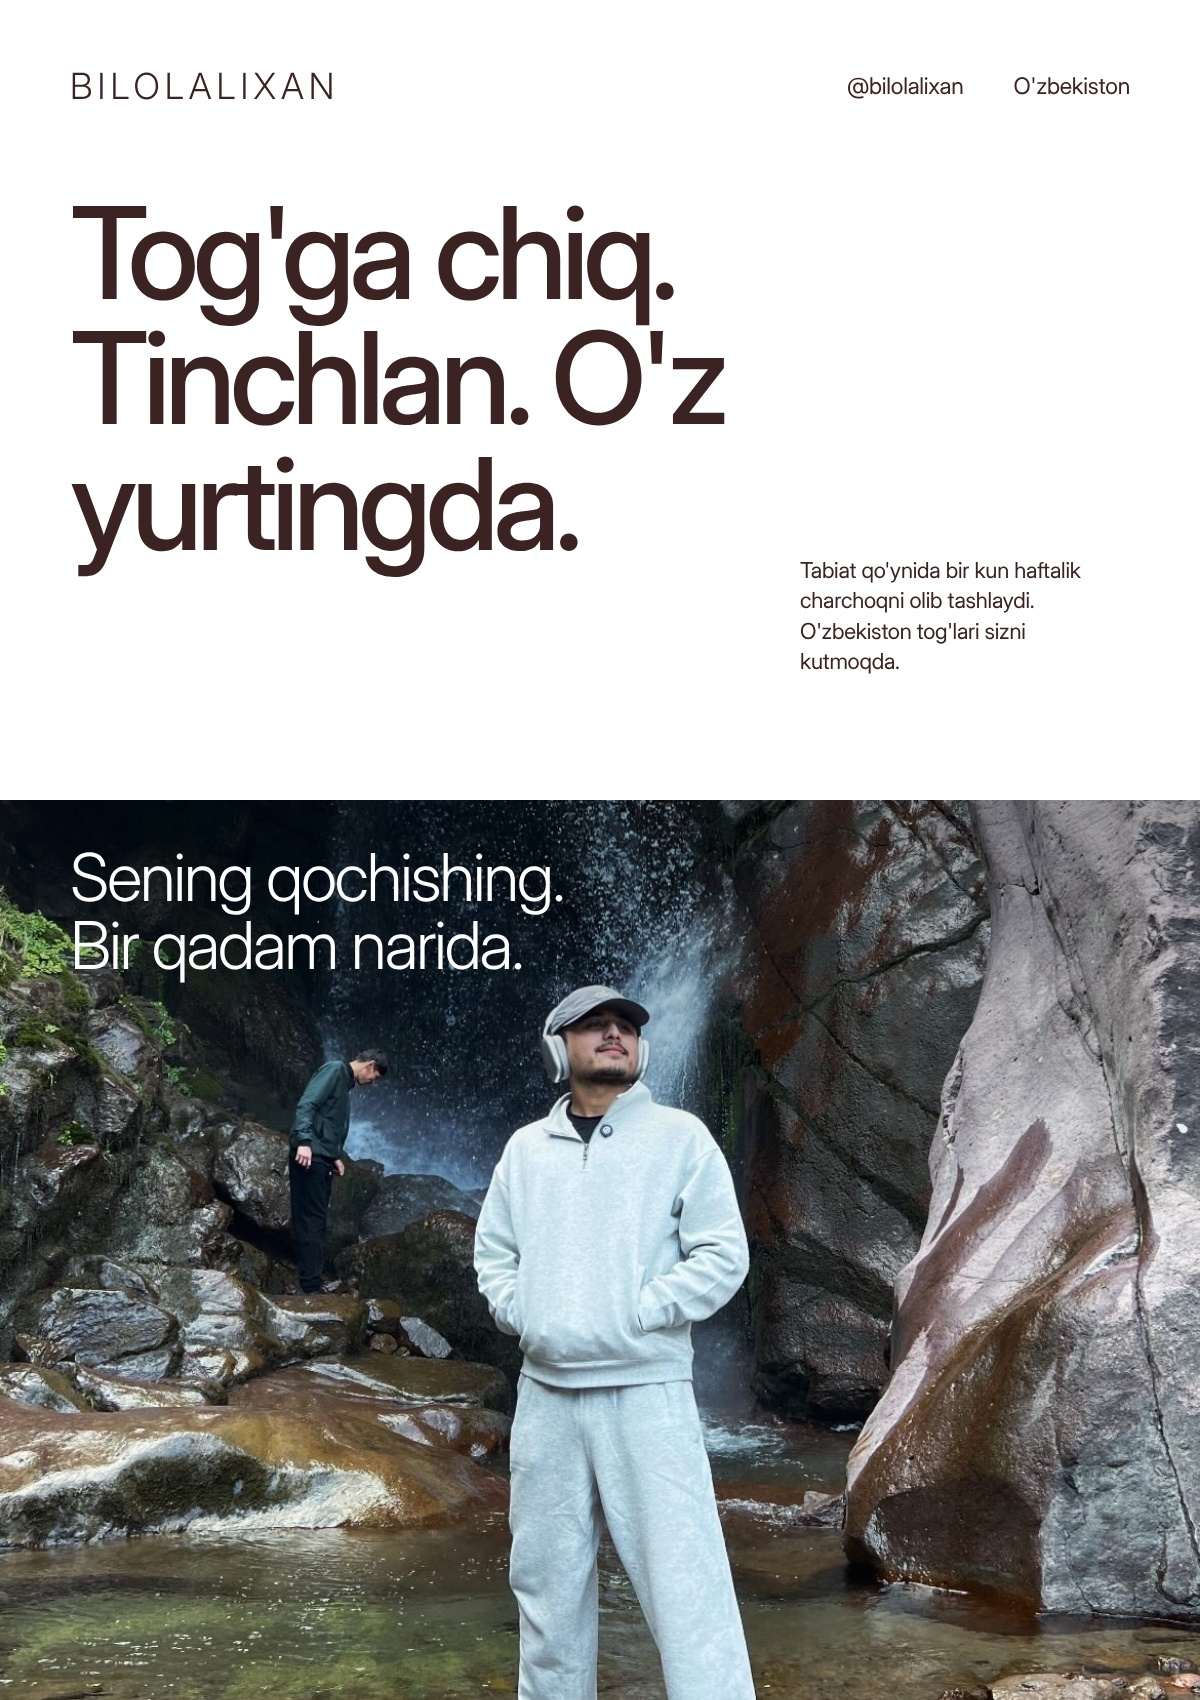
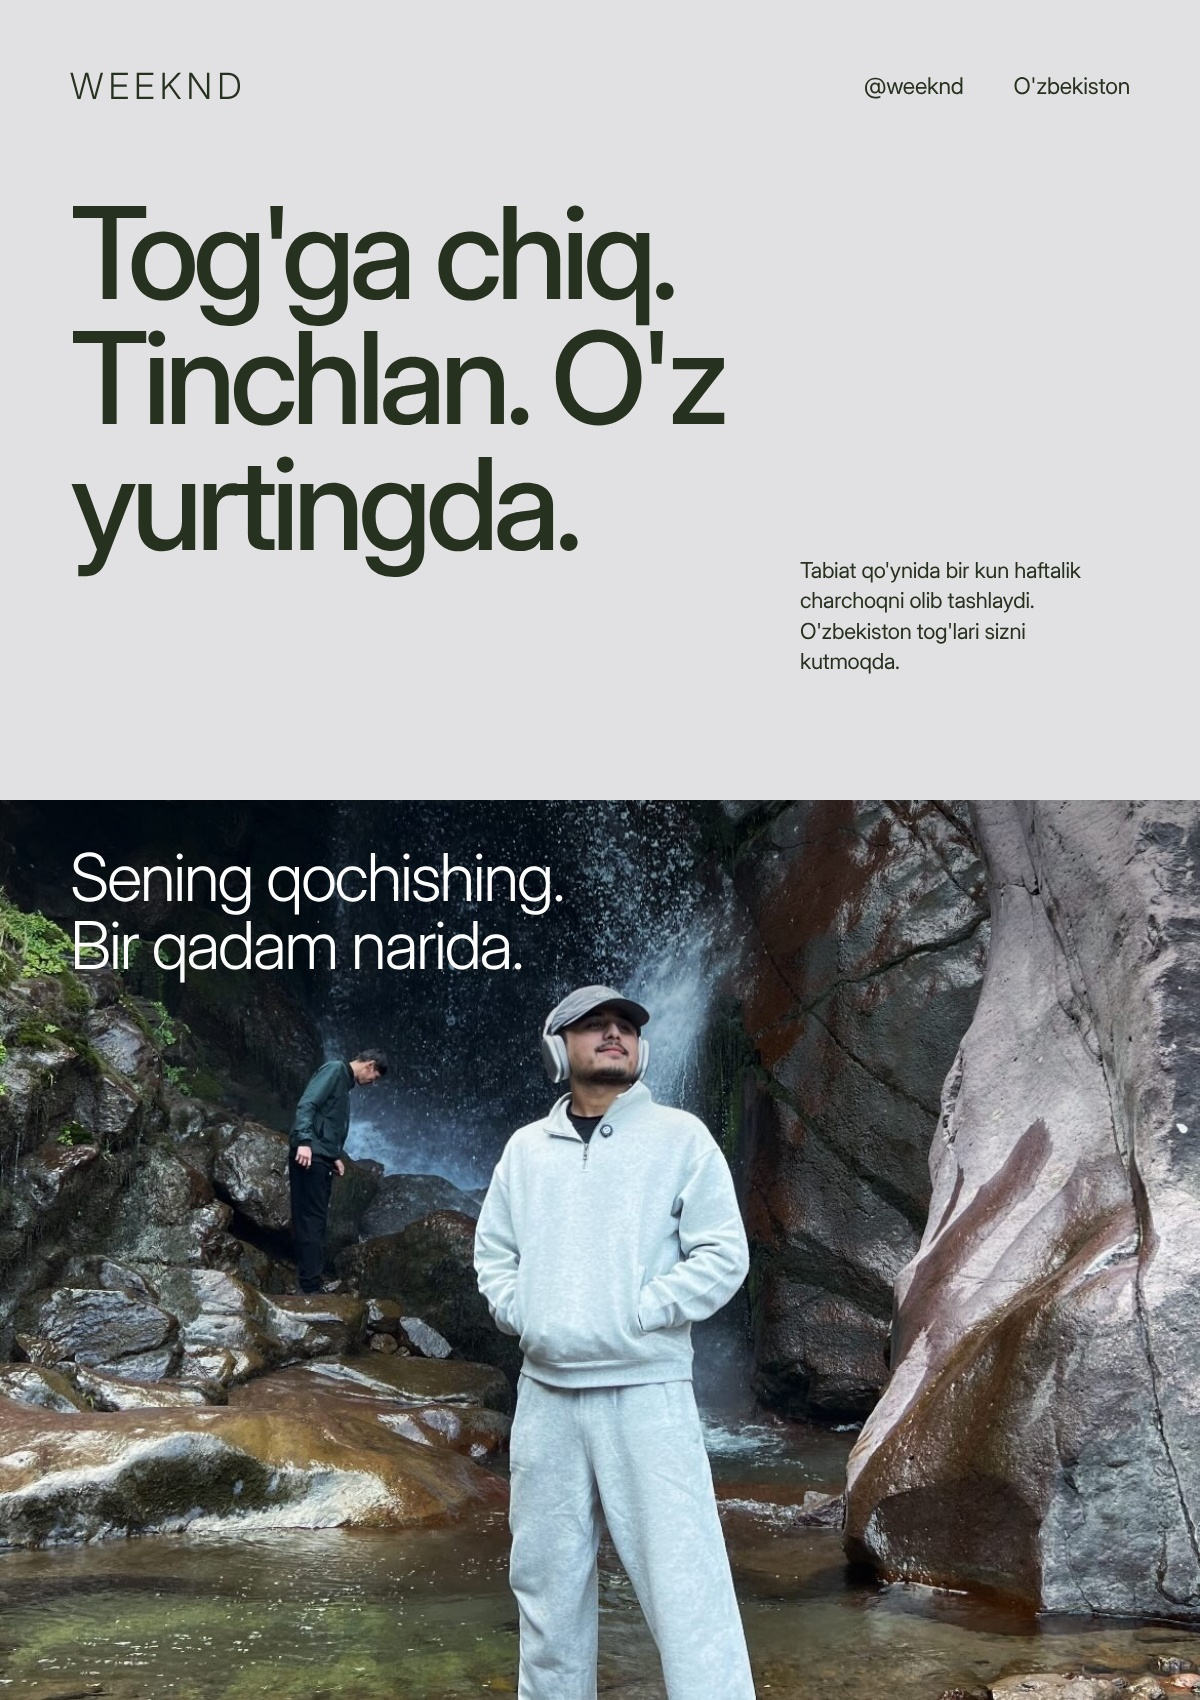
Travel posters: nature palette, Weeknd branding
Claude-Session: https://claude.ai/code/session_016hDDYxXRao7raJTtdDbdUH

diff --git a/poster-travel/p.html b/poster-travel/p.html
@@ -4,22 +4,22 @@
 .hd{position:absolute;top:64px;left:70px;right:70px;display:flex;justify-content:space-between;align-items:center;font-size:24px;letter-spacing:-.01em}
 .logo{font-size:36px;font-weight:300;letter-spacing:.14em}
 .hd .r{display:flex;gap:50px;font-size:23px}
-.dark{background:#432b2a;color:#fff}
+.dark{background:#2b3725;color:#e9e7e2}
 .dark .big{position:absolute;left:70px;top:760px;font-size:158px;font-weight:500;line-height:.98;letter-spacing:-.05em;width:1000px}
 .dark .sub{position:absolute;left:70px;bottom:80px;font-size:70px;font-weight:300;line-height:1.02;width:620px}
 .dark .par{position:absolute;right:70px;bottom:80px;width:340px;font-size:22px;line-height:1.38;letter-spacing:-.01em}
-.light{background:#fff;color:#3a2322}
+.light{background:#e1e0e2;color:#27311f}
 .light .big{position:absolute;left:70px;top:190px;font-size:128px;font-weight:500;line-height:.98;letter-spacing:-.05em;width:1060px}
 .light .par{position:absolute;right:70px;top:555px;width:330px;font-size:22px;line-height:1.38;letter-spacing:-.01em}
 .ph{position:absolute;left:0;right:0;bottom:0;height:900px;background:url(me.jpg) 0 -870px/1200px auto no-repeat}
 .ph::after{content:"";position:absolute;inset:0;background:linear-gradient(180deg,rgba(0,0,0,.35),rgba(0,0,0,0) 40%)}
 .ph .t{position:absolute;z-index:2;left:70px;top:44px;color:#fff;font-size:66px;font-weight:300;line-height:1.03;letter-spacing:-.03em}
 </style></head><body>
-<section class="p dark" id="a"><div class="hd"><div class="logo">BILOLALIXAN</div><div class="r"><span>@bilolalixan</span><span>O'zbekiston</span></div></div>
+<section class="p dark" id="a"><div class="hd"><div class="logo">WEEKND</div><div class="r"><span>@weeknd</span><span>O'zbekiston</span></div></div>
 <div class="big">Tog'lar sizni kutmoqda.</div>
 <div class="sub">Milliy sayohat. Qadam-baqadam.</div>
 <div class="par">Sharsharalar, tosh yo'llar va musaffo havo. Dam olish uchun uzoqqa borish shart emas: eng go'zal joylar o'z yurtimizda.</div></section>
-<section class="p light" id="b"><div class="hd"><div class="logo">BILOLALIXAN</div><div class="r"><span>@bilolalixan</span><span>O'zbekiston</span></div></div>
+<section class="p light" id="b"><div class="hd"><div class="logo">WEEKND</div><div class="r"><span>@weeknd</span><span>O'zbekiston</span></div></div>
 <div class="big">Tog'ga chiq. Tinchlan. O'z yurtingda.</div>
 <div class="par">Tabiat qo'ynida bir kun haftalik charchoqni olib tashlaydi. O'zbekiston tog'lari sizni kutmoqda.</div>
 <div class="ph"><div class="t">Sening qochishing.<br>Bir qadam narida.</div></div></section>
